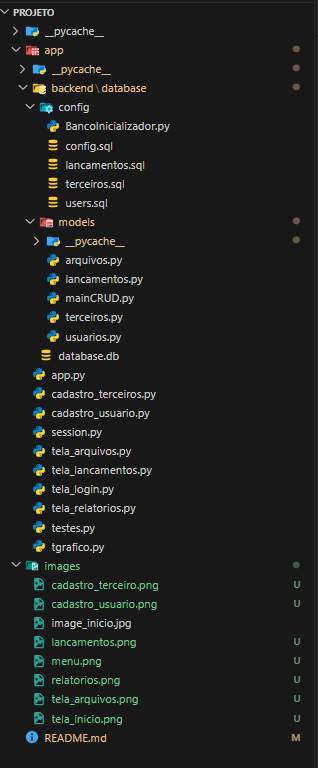
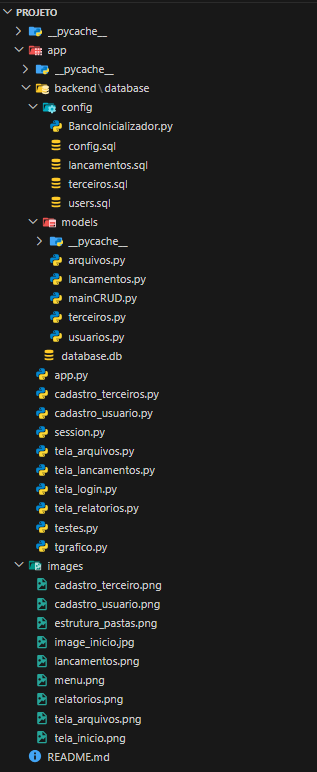
docs: alteração ne apresentação da modularização do README

diff --git a/README.md b/README.md
@@ -377,7 +377,7 @@ Lista das tecnologias, frameworks e bibliotecas utilizadas no desenvolvimento do
 
 ## 💾 Modularização
 
-Estrutura de organização do projeto
+Estrutura de pastas do projeto
 
 <p align="center">
     <img src="images/estrutura_pastas.png" alt="Texto Alternativo" width="350">
